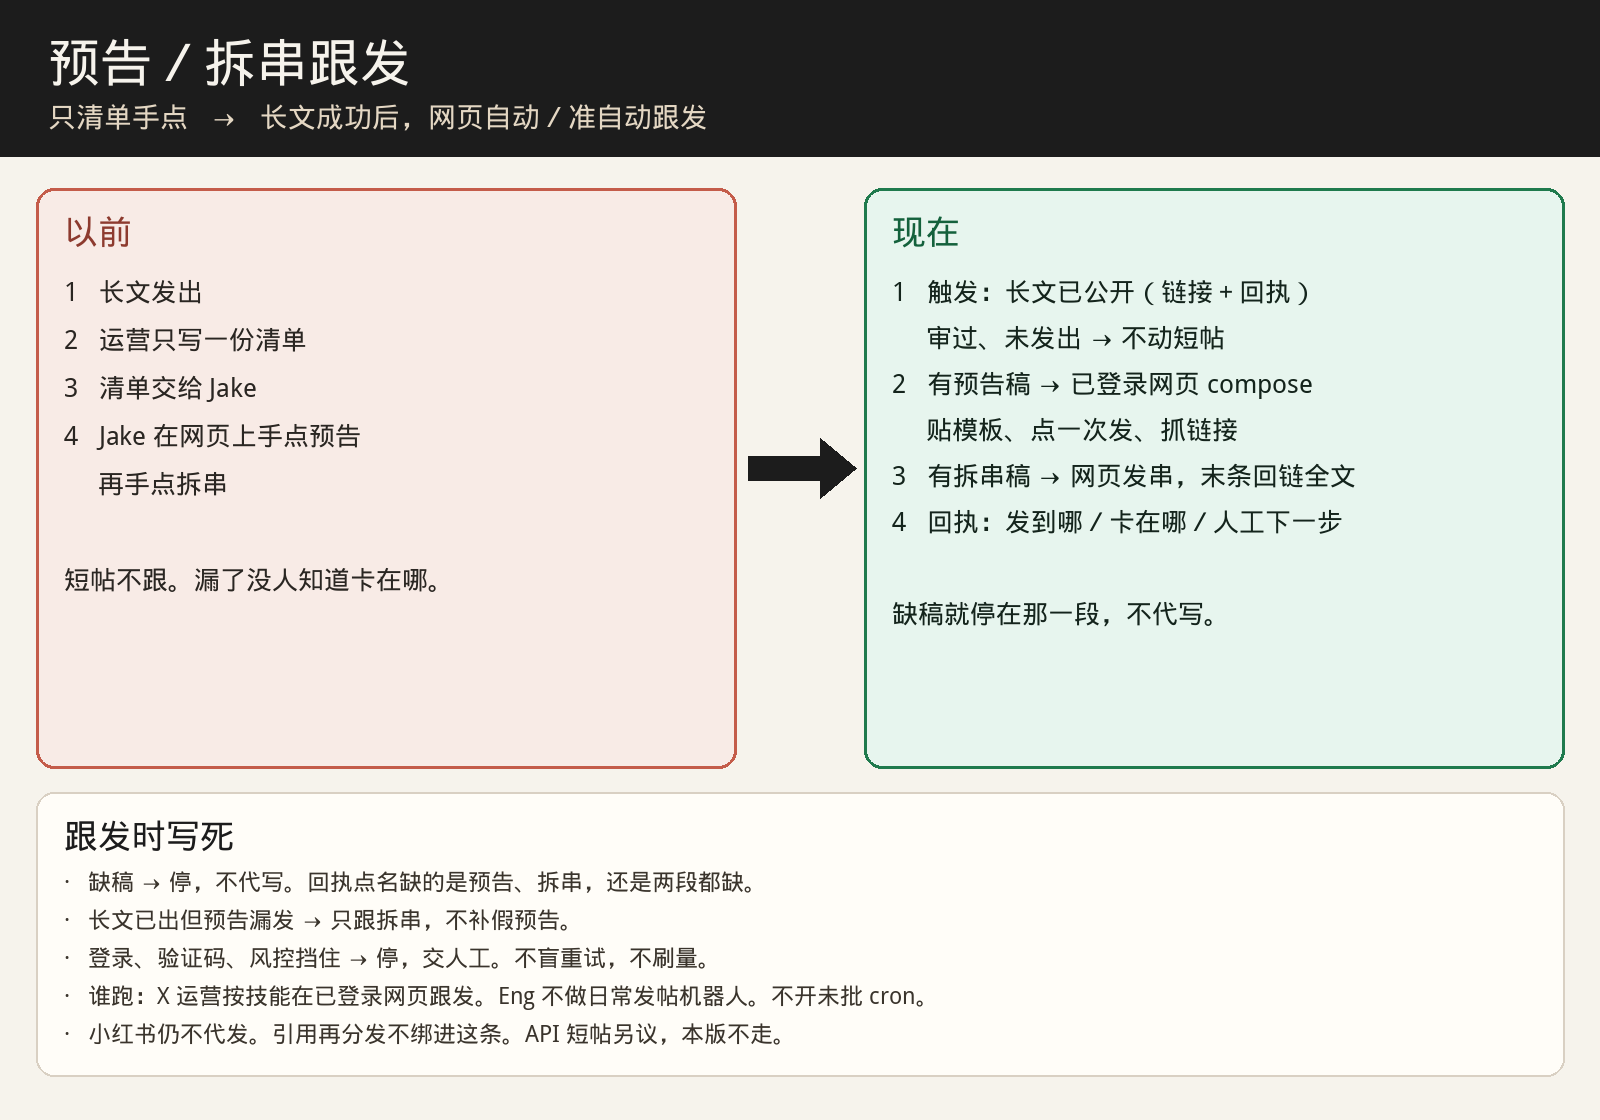
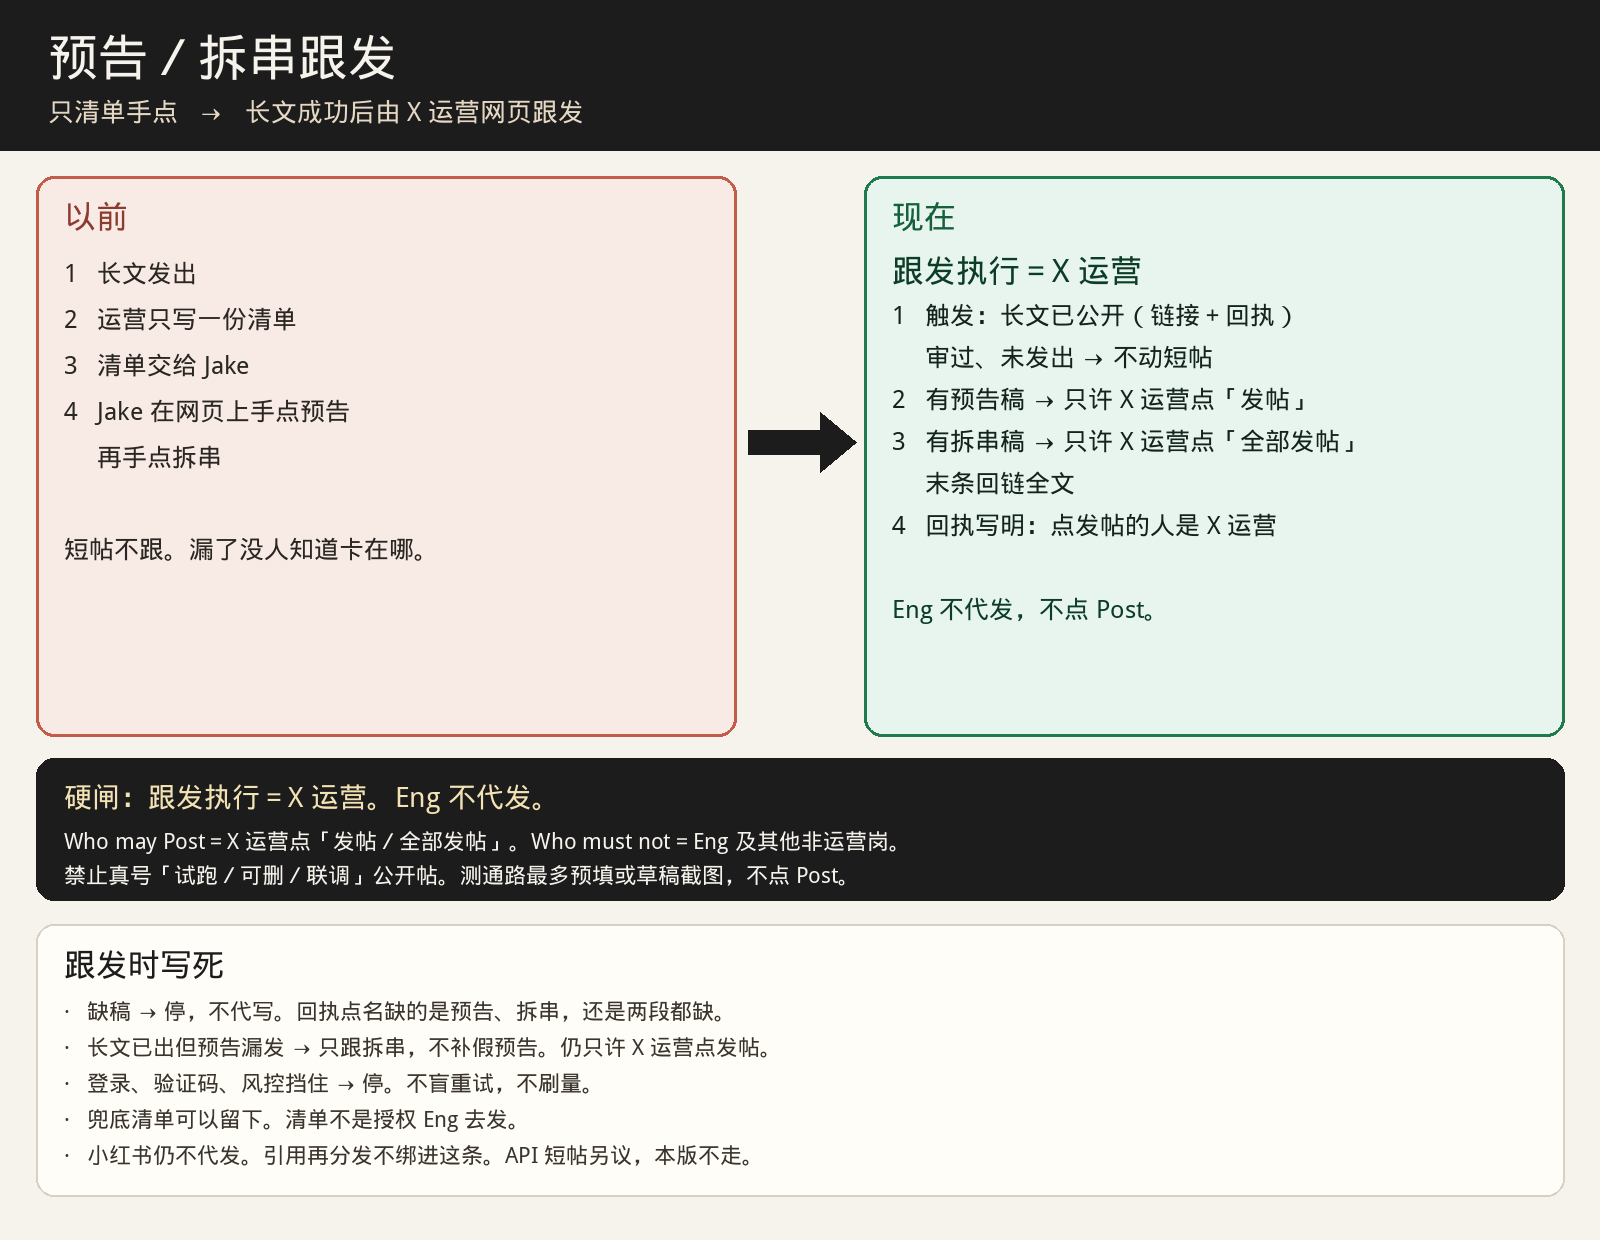
content-x-ops：公开发帖只许 X 运营点，Eng 不得试帖
Who may Post 写死为 X 运营。Eng 和其他岗不得点 Post，不得发试跑／可删／联调公开帖。测通路停在预填或草稿截图。兜底清单不是发帖授权。

diff --git a/skills/content-x-ops/templates/thread.md b/skills/content-x-ops/templates/thread.md
@@ -4,6 +4,8 @@
 
 每一条只许粘贴发布包 X 正文或包装三件套里的原句。跟发当时不从长文现拆、不摘要、不改写。条数按已经排好的原句，不凑。任一条要发的正文为空，或末条没有长文公开链接：拆串缺稿，不发。
 
+谁点发帖：Who may Post＝X 运营，只许 X 运营点「全部发帖」。Who must not＝Eng 及其他非 X 运营岗。不得按本槽代发，不得在 X 真号发「试跑／可删／联调」公开帖。测通路最多预填或存草稿截图，不点 Post。本模板不是发帖授权。兜底清单也不授权 Eng 去发。
+
 - 发布包：
 - content_id：
 - revision：

diff --git a/skills/content-x-ops/templates/preview-short.md b/skills/content-x-ops/templates/preview-short.md
@@ -4,6 +4,8 @@
 
 句子只许从发布包或包装三件套原样粘贴。运营不改字、不补句。必填槽有一个空，这一段就是缺稿，网页跟发不发预告，也不另写假预告。
 
+谁点发帖：Who may Post＝X 运营，只许 X 运营点「发帖」。Who must not＝Eng 及其他非 X 运营岗。不得按本槽代发，不得在 X 真号发「试跑／可删／联调」公开帖。测通路最多预填或存草稿截图，不点 Post。本模板不是发帖授权。兜底清单也不授权 Eng 去发。
+
 - 发布包：
 - content_id：
 - revision：
